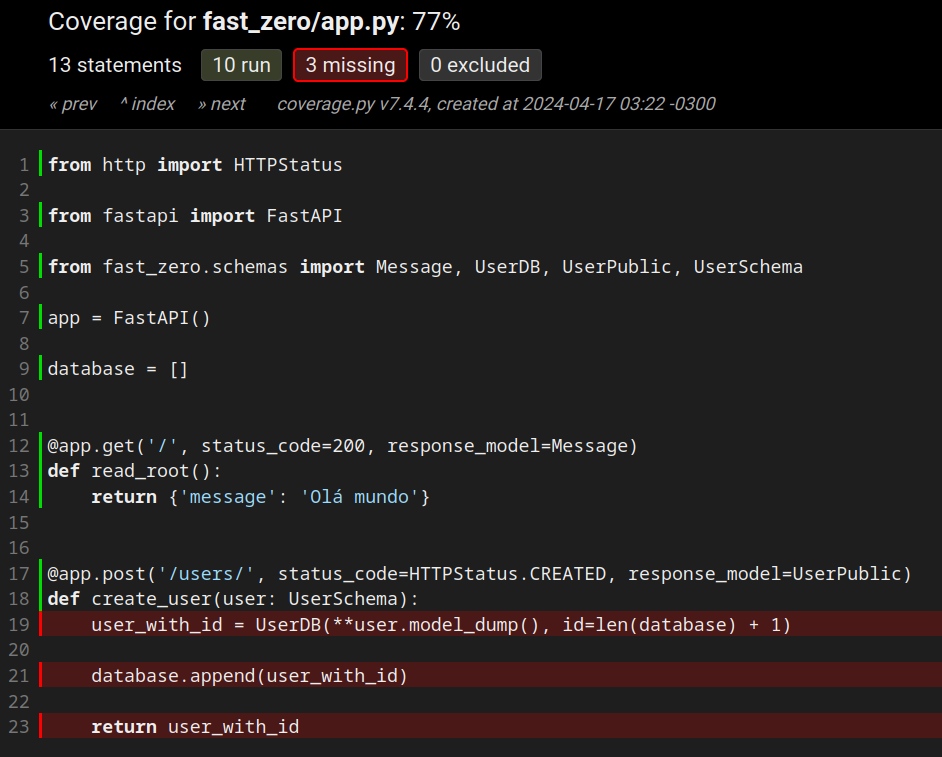
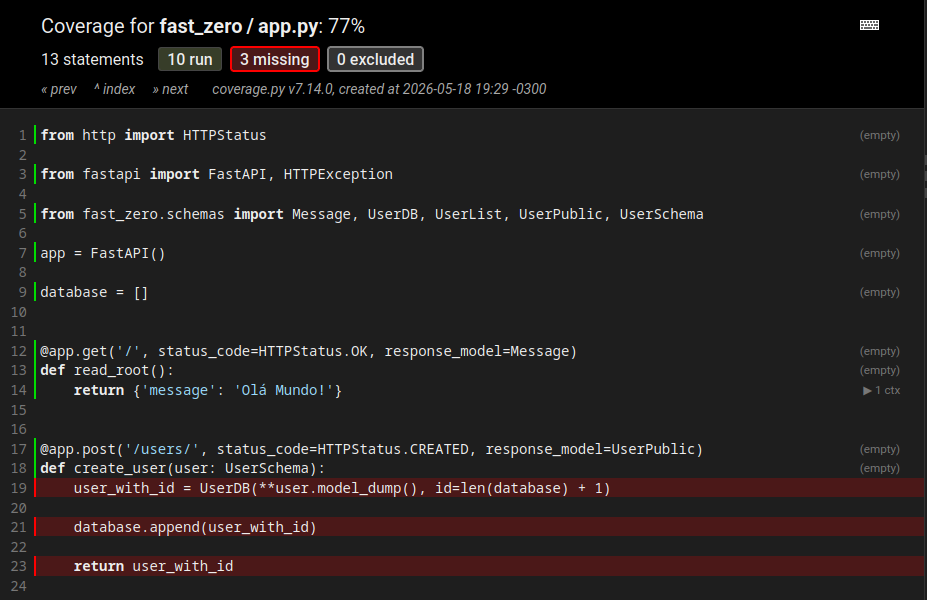
Cobertura usando contexto na aula 03
related #523

diff --git a/codigo_das_aulas/03/fast_zero/app.py b/codigo_das_aulas/03/fast_zero/app.py
@@ -6,7 +6,7 @@ from fast_zero.schemas import Message, UserDB, UserList, UserPublic, UserSchema
 
 app = FastAPI()
 
-database = []  # Lista provisória para fins de estudo
+database = []
 
 
 @app.get('/', status_code=HTTPStatus.OK, response_model=Message)

diff --git a/aulas/03.md b/aulas/03.md
@@ -380,8 +380,6 @@ Vemos que temos 3 Miss. Possivelmente das linhas que acabamos de escrever. Podem
 
 ![descrição](assets/03/cobertura_get_sem_testes.png){: .center .shadow width=700}
 
-> TODO: Alterar essa imagem
-
 Então, vamos escrever nosso teste. Esse teste para a rota POST precisa verificar se a criação de um novo usuário funciona corretamente. Enviamos uma solicitação POST com um novo usuário para a rota /users/. Em seguida, verificamos se a resposta tem o status HTTP 201 (Criado) e se a resposta contém o novo usuário criado.
 
 ```python title="tests/test_app.py" linenums="17"